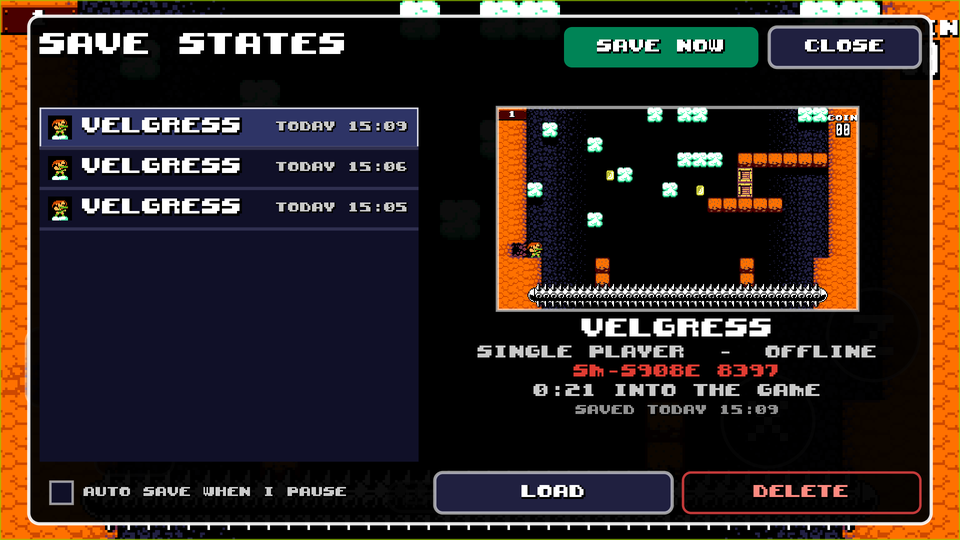
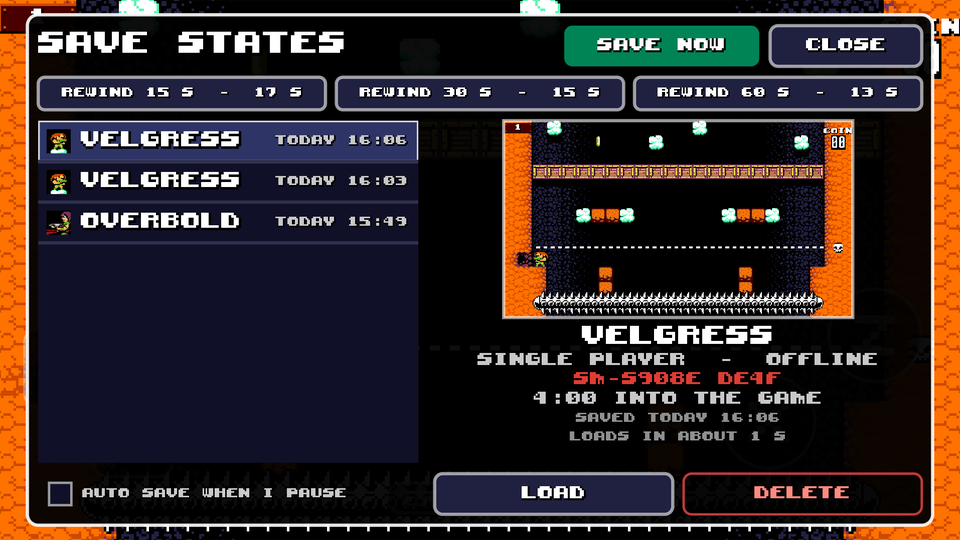
README: rewind screenshots (save list with REWIND buttons, the ask-first box, rewinding)

diff --git a/README.md b/README.md
@@ -62,7 +62,9 @@ The full list is in [CHANGELOG.md](CHANGELOG.md). How save states, rewind and re
 | ![Players panel](docs/screenshots/players_panel.png) | ![Layout editor](docs/screenshots/layout_editor.png) |
 | **Players panel**: touch and each gamepad to P1-P4, your name, join code, UPnP, hot seat | **Layout editor**: move, resize and hide controls, opacity, 4-way / 8-way d-pad |
 | ![Save states](docs/screenshots/save_states.png) | ![Loading a save online](docs/screenshots/online_load_vote.png) |
-| **Save states**: the save list with each save's picture, game, players and time into the game | **Loading online**: the other players see what you want to load and accept or decline |
+| **Save states**: the save list with each save's picture, game, players and time into the game, and the REWIND buttons with how long each takes | **Loading online**: the other players see what you want to load and accept or decline |
+| ![Rewind asks first when it will take a while](docs/screenshots/rewind_confirm.png) | ![Rewinding](docs/screenshots/rewinding.png) |
+| **Rewind**: a rewind that will take 5 seconds or more asks first, with the estimate | **Rewinding**: your inputs replay at high speed to the exact frame |
 | ![Waiting for a dropped player](docs/screenshots/waiting_for_player.png) | ![Rejoining a match](docs/screenshots/rejoin.png) |
 | **A dropped player**: everyone waits, with a countdown, until they're back | **Rejoining**: reopen the app and tap REJOIN to catch up with the match |
 
